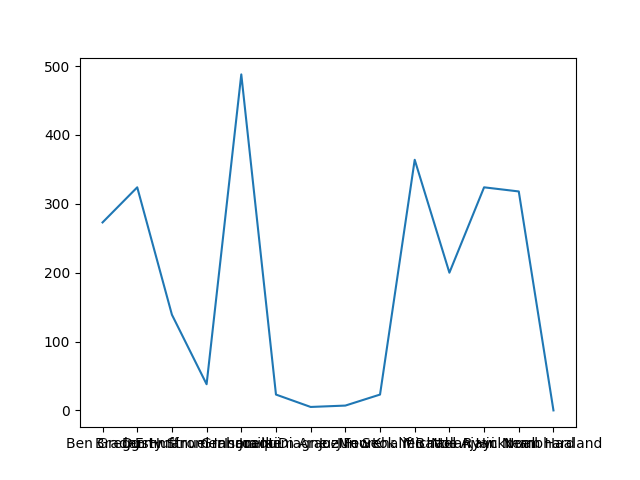
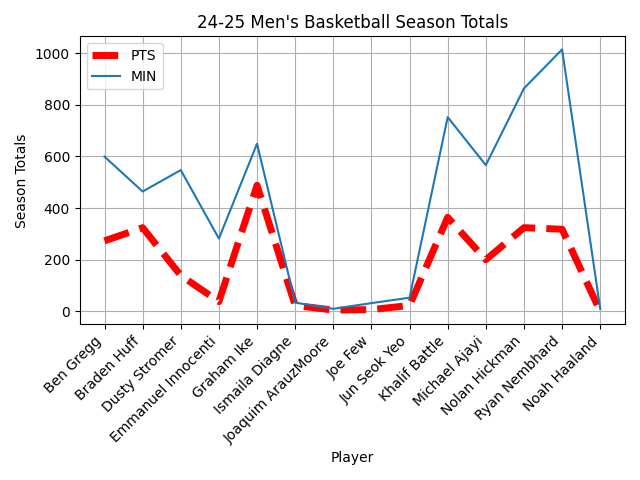
finish vizfun

diff --git a/VisualizationFun/main.py b/VisualizationFun/main.py
@@ -20,20 +20,60 @@ import pandas as pd
 # 1. using the pyplot submodule
 import matplotlib.pyplot as plt
 # there is always a "current" figure
+# https://matplotlib.org/stable/api/pyplot_summary.html
 # 2. using the OOP interface
 # 3. a mix of the two
 
 # lets start with a simple line chart
-def line_chart_example(x, y, filename):
+def line_chart_example(x, y, y2, filename):
+    plt.figure()
     # assume that x and y are parallel sequences
     # lists, tuples, series, numpy arrays, etc.
-    plt.plot(x, y)
+    # https://matplotlib.org/stable/api/_as_gen/matplotlib.pyplot.plot.html#matplotlib.pyplot.plot
+    plt.plot(x, y, label="PTS", c="red", lw=5, ls="--")
+    plt.plot(x, y2, label="MIN")
+
+    # lets beautify the plot!
+    plt.xticks(rotation=45, ha="right")
+
+    plt.xlabel("Player")
+    plt.ylabel("Season Totals")
+    plt.title("24-25 Men's Basketball Season Totals")
+    plt.grid()
+    plt.legend()
+
+    plt.tight_layout() # right before showing or saving the chart
+
     # 3 ways to show the chart
     # 1. plt.show() shows an interactive desktop window
     # plt.show()
     # 2. plt.savefig()
     plt.savefig(filename)
+    # 3. show the chart inline in a jupyter notebook
 
+def scatter_chart_example(x, y, filename):
+    plt.figure() # a new "current" figure
+    # https://matplotlib.org/stable/api/_as_gen/matplotlib.pyplot.scatter.html#matplotlib.pyplot.scatter
+    plt.scatter(x, y, s=200, marker="x")
+    plt.savefig(filename)
+
+def bar_chart_example(x, y, filename):
+    plt.figure() # a new "current" figure
+    # https://matplotlib.org/stable/api/_as_gen/matplotlib.pyplot.bar.html#matplotlib.pyplot.bar
+    plt.bar(x, y)
+    plt.savefig(filename)
+
+def pie_chart_example(labels, y, filename):
+    plt.figure() # a new "current" figure
+    # https://matplotlib.org/stable/api/_as_gen/matplotlib.pyplot.pie.html#matplotlib.pyplot.pie
+    plt.pie(y, labels=labels, autopct="%1.1f%%")
+    plt.savefig(filename)
+
+def histogram_chart_example(x, filename):
+    plt.figure() # a new "current" figure
+    # https://matplotlib.org/stable/api/_as_gen/matplotlib.pyplot.hist.html#matplotlib.pyplot.hist
+    plt.hist(x, bins=5, edgecolor="black")
+    plt.savefig(filename)
 
 def main():
     df = pd.read_csv("bball.csv", index_col=0)
@@ -60,8 +100,19 @@ def main():
     ppg_ser = ppg_ser.sort_values(ascending=False)
     print(ppg_ser.index[0], ppg_ser.iloc[0])
 
+    # game plan
+    # 1. line chart (check!)
     # simple charting examples for demonstration purposes only
     # (not the best way to visualize some of the data)
-    line_chart_example(df.index, df["PTS"], "line_example.png")
+    line_chart_example(df.index, df["PTS"], df["MIN"], "line_example.png")
+    # 2. scatter chart
+    scatter_chart_example(df.index, df["PTS"], "scatter_example.png")
+    # 3. bar chart
+    bar_chart_example(class_counts_ser.index, class_counts_ser, "bar_example.png")
+    # 4. pie chart
+    pie_chart_example(class_counts_ser.index, class_counts_ser, "pie_example.png")
+    # 5. histogram chart
+    histogram_chart_example(df["PTS"], "hist_example.png")
+    # 6. boxplot (later)
 
 main()
